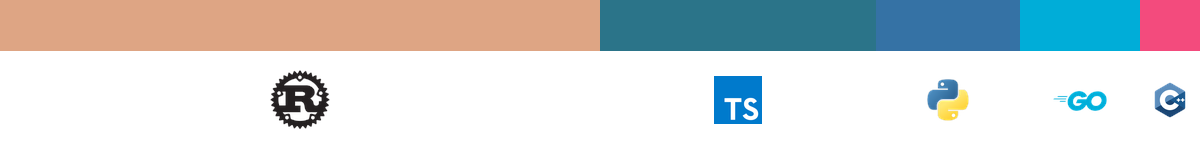
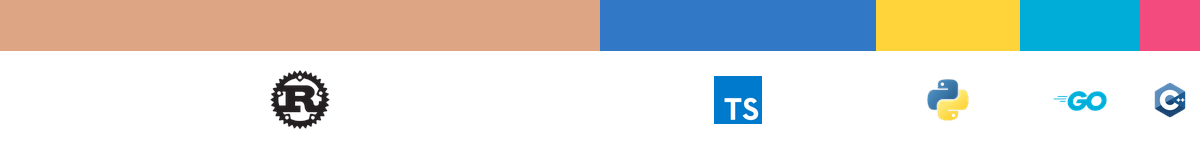
chore: update snake workflow and add language distribution image

Changed region(s): [[0.4933, 0.0, 0.8633, 0.3467]]

diff --git a/generate_language_distribution.py b/generate_language_distribution.py
@@ -12,8 +12,8 @@ from PIL import Image, ImageDraw
 languages = [
     # Use GitHub Linguist language colors
     ('Rust',       50, '#dea584', 'https://raw.githubusercontent.com/github/explore/main/topics/rust/rust.png'),
-    ('TypeScript', 23, '#2b7489', 'https://raw.githubusercontent.com/github/explore/main/topics/typescript/typescript.png'),
-    ('Python',     12, '#3572A5', 'https://raw.githubusercontent.com/github/explore/main/topics/python/python.png'),
+    ('TypeScript', 23, '#3178c6', 'https://raw.githubusercontent.com/github/explore/main/topics/typescript/typescript.png'),
+    ('Python',     12, '#FFD43B', 'https://raw.githubusercontent.com/github/explore/main/topics/python/python.png'),
     ('Go',         10, '#00ADD8', 'https://raw.githubusercontent.com/github/explore/main/topics/go/go.png'),
     ('C++',         5, '#f34b7d', 'https://raw.githubusercontent.com/github/explore/main/topics/cpp/cpp.png'),
 ]
